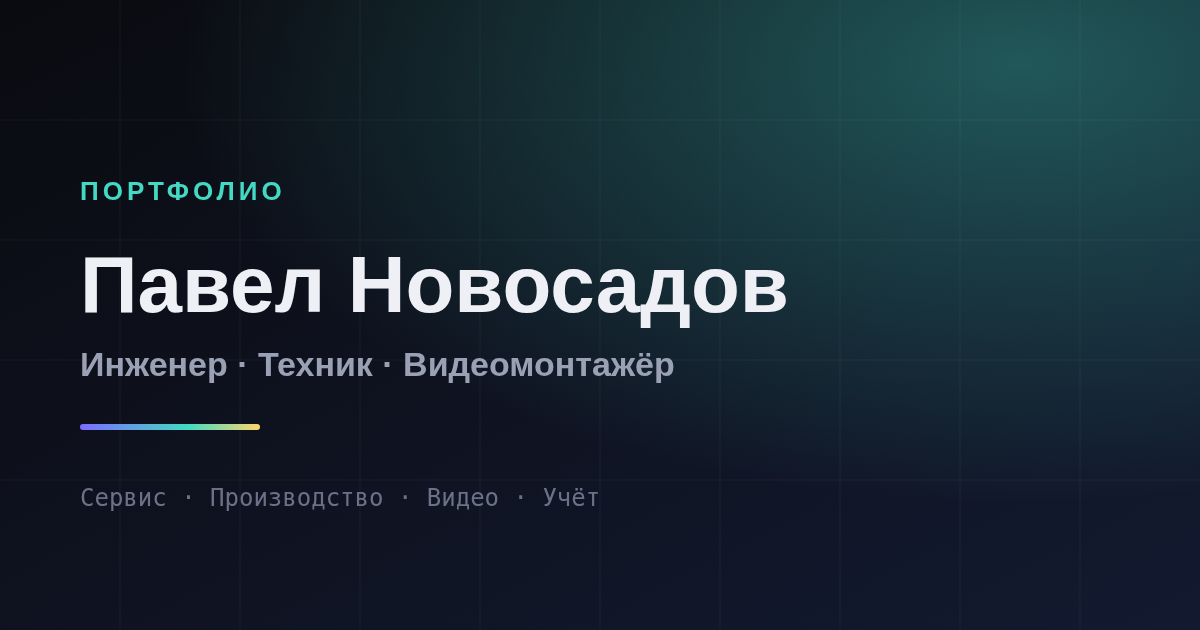
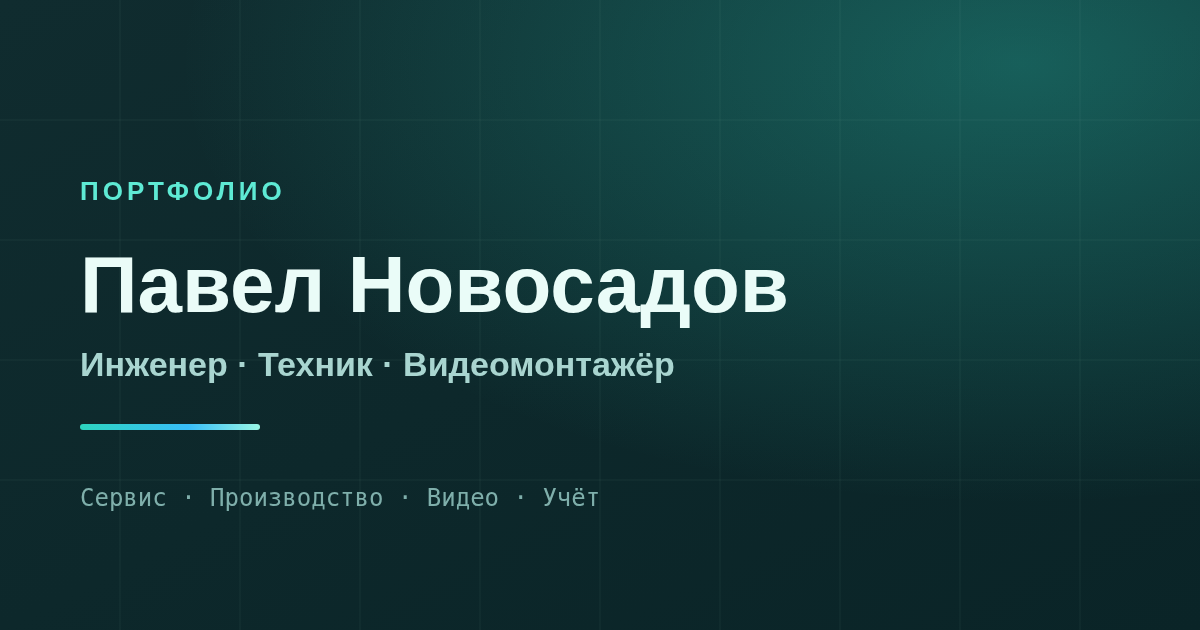
style: switch to medical teal palette
- replace violet and gold accents with turquoise, cyan and mint
- lighten dark theme from near-black to deep teal surfaces
- retune light theme to pale mint with teal accents
- keep four direction colors inside the teal-blue family
- update favicon, avatar, OG cover and 404 page
- keep contrast at WCAG AA for body text

Changed region(s): [[0.0, 0.0, 0.5858, 0.7841], [0.0617, 0.754, 0.4933, 0.8143]]

diff --git a/assets/css/style.css b/assets/css/style.css
@@ -5,24 +5,31 @@
 
 /* ---------- Design tokens ---------- */
 :root {
-  --bg: #0a0b10;
-  --bg-alt: #0e1017;
-  --surface: #12141d;
-  --surface-2: #171a25;
-  --border: rgba(255, 255, 255, 0.08);
-  --border-strong: rgba(255, 255, 255, 0.16);
-  --text: #eef0f6;
-  --text-muted: #9aa1b4;
-  --text-dim: #6b7288;
-  --accent: #7c6cff;
-  --accent-2: #43d9c4;
-  --accent-3: #ff7a90;
-  --accent-4: #ffd66b;
-  --accent-5: #5ad1ff;
-  --gradient: linear-gradient(120deg, #7c6cff 0%, #43d9c4 55%, #ffd66b 100%);
+  --bg: #12363a;
+  --bg-alt: #0f2e32;
+  --surface: #184449;
+  --surface-2: #1e5055;
+  --border: rgba(167, 243, 208, 0.13);
+  --border-strong: rgba(167, 243, 208, 0.26);
+  --text: #eafcf8;
+  --text-muted: #a9d5d0;
+  --text-dim: #8ab9b4;
+  --accent: #2dd4bf;
+  --accent-2: #5eead4;
+  --accent-3: #67e8f9;
+  --accent-4: #99f6e4;
+  --accent-5: #38bdf8;
+  --gradient: linear-gradient(120deg, #2dd4bf 0%, #22d3ee 55%, #99f6e4 100%);
   --gradient-text: var(--gradient);
-  --shadow: 0 24px 60px -24px rgba(0, 0, 0, 0.75);
-  --ring: 0 0 0 3px rgba(124, 108, 255, 0.35);
+  --shadow: 0 24px 60px -24px rgba(0, 18, 20, 0.7);
+  --ring: 0 0 0 3px rgba(45, 212, 191, 0.35);
+  --ink: #04211f;
+
+  --track-service: #2dd4bf;
+  --track-production: #38bdf8;
+  --track-video: #67e8f9;
+  --track-warehouse: #5eead4;
+  --track-it: #22d3ee;
 
   --radius-sm: 10px;
   --radius: 18px;
@@ -37,20 +44,31 @@
 }
 
 [data-theme="light"] {
-  --bg: #f7f7fb;
+  --bg: #eefaf7;
   --bg-alt: #ffffff;
   --surface: #ffffff;
-  --surface-2: #f1f2f8;
-  --border: rgba(16, 18, 32, 0.09);
-  --border-strong: rgba(16, 18, 32, 0.18);
-  --text: #14161f;
-  --text-muted: #4b5266;
-  --text-dim: #646c80;
-  --accent: #5b47f5;
-  --accent-2: #0a7a6a;
-  --gradient-text: linear-gradient(120deg, #5b47f5 0%, #0f9f8c 55%, #a86b00 100%);
-  --shadow: 0 24px 50px -28px rgba(20, 22, 40, 0.35);
-  --ring: 0 0 0 3px rgba(91, 71, 245, 0.25);
+  --surface-2: #e2f4ef;
+  --border: rgba(8, 60, 56, 0.10);
+  --border-strong: rgba(8, 60, 56, 0.20);
+  --text: #0b2e2b;
+  --text-muted: #3d6561;
+  --text-dim: #4f7570;
+  --accent: #0f766e;
+  --accent-2: #115e59;
+  --accent-3: #0891b2;
+  --accent-4: #0e7490;
+  --accent-5: #0369a1;
+  --gradient: linear-gradient(120deg, #0d9488 0%, #0891b2 55%, #0f766e 100%);
+  --gradient-text: linear-gradient(120deg, #0f766e 0%, #0891b2 55%, #0d9488 100%);
+  --shadow: 0 24px 50px -28px rgba(6, 60, 56, 0.28);
+  --ring: 0 0 0 3px rgba(13, 148, 136, 0.25);
+  --ink: #ffffff;
+
+  --track-service: #0f766e;
+  --track-production: #0369a1;
+  --track-video: #0e7490;
+  --track-warehouse: #0f766e;
+  --track-it: #0e7490;
 }
 
 /* ---------- Reset ---------- */
@@ -90,7 +108,7 @@ ul { list-style: none; padding: 0; }
   border-radius: 6px;
 }
 
-::selection { background: var(--accent); color: #fff; }
+::selection { background: var(--accent); color: var(--ink); }
 
 .skip-link {
   position: absolute;
@@ -99,7 +117,7 @@ ul { list-style: none; padding: 0; }
   z-index: 200;
   padding: 12px 18px;
   background: var(--accent);
-  color: #fff;
+  color: var(--ink);
   border-radius: var(--radius-sm);
   transition: top 0.2s;
 }
@@ -139,7 +157,7 @@ ul { list-style: none; padding: 0; }
   width: 520px;
   height: 520px;
   border-radius: 50%;
-  background: radial-gradient(circle, rgba(124, 108, 255, 0.14), transparent 62%);
+  background: radial-gradient(circle, rgba(45, 212, 191, 0.16), transparent 62%);
   transform: translate(-50%, -50%);
   pointer-events: none;
   z-index: 0;
@@ -190,7 +208,7 @@ ul { list-style: none; padding: 0; }
   height: 34px;
   border-radius: 10px;
   background: var(--gradient);
-  color: #0a0b10;
+  color: var(--ink);
   font-size: 13px;
   font-weight: 800;
 }
@@ -278,13 +296,13 @@ ul { list-style: none; padding: 0; }
 .orb--1 {
   width: 620px; height: 620px;
   top: -220px; right: -160px;
-  background: radial-gradient(circle, rgba(124, 108, 255, 0.55), transparent 68%);
+  background: radial-gradient(circle, rgba(45, 212, 191, 0.48), transparent 68%);
   animation: float 16s ease-in-out infinite;
 }
 .orb--2 {
   width: 480px; height: 480px;
   bottom: -200px; left: -140px;
-  background: radial-gradient(circle, rgba(67, 217, 196, 0.35), transparent 70%);
+  background: radial-gradient(circle, rgba(34, 211, 238, 0.32), transparent 70%);
   animation: float 20s ease-in-out infinite reverse;
 }
 [data-theme="light"] .orb { opacity: 0.35; }
@@ -398,13 +416,13 @@ ul { list-style: none; padding: 0; }
 .btn--primary {
   background: var(--text);
   color: var(--bg);
-  box-shadow: 0 10px 30px -12px rgba(124, 108, 255, 0.6);
+  box-shadow: 0 10px 30px -12px rgba(45, 212, 191, 0.45);
 }
 .btn--primary:hover {
   transform: translateY(-2px);
   background: var(--accent);
-  color: #fff;
-  box-shadow: 0 18px 38px -14px rgba(124, 108, 255, 0.75);
+  color: var(--ink);
+  box-shadow: 0 18px 38px -14px rgba(45, 212, 191, 0.55);
 }
 
 .btn--ghost {
@@ -659,11 +677,11 @@ ul { list-style: none; padding: 0; }
 .direction__link:hover { color: var(--track-color, var(--accent-2)); gap: 12px; }
 .direction__link:hover span { transform: translateX(2px); }
 
-[data-track="service"] { --track-color: var(--accent); }
-[data-track="production"] { --track-color: var(--accent-4); }
-[data-track="video"] { --track-color: var(--accent-3); }
-[data-track="warehouse"] { --track-color: var(--accent-2); }
-[data-track="it"] { --track-color: var(--accent-5); }
+[data-track="service"] { --track-color: var(--track-service); }
+[data-track="production"] { --track-color: var(--track-production); }
+[data-track="video"] { --track-color: var(--track-video); }
+[data-track="warehouse"] { --track-color: var(--track-warehouse); }
+[data-track="it"] { --track-color: var(--track-it); }
 
 /* ---------- Skill levels ---------- */
 .levels { display: grid; }
@@ -778,7 +796,7 @@ ul { list-style: none; padding: 0; }
 }
 .work__item--current .work__body::before {
   border-color: var(--accent-2);
-  box-shadow: 0 0 0 4px rgba(67, 217, 196, 0.16);
+  box-shadow: 0 0 0 4px rgba(45, 212, 191, 0.18);
 }
 .work__item:last-child .work__side,
 .work__item:last-child .work__body { padding-bottom: 0; }
@@ -979,7 +997,7 @@ ul { list-style: none; padding: 0; }
   border-radius: 50%;
   background: var(--bg);
   border: 2px solid var(--accent-2);
-  box-shadow: 0 0 0 4px rgba(67, 217, 196, 0.1);
+  box-shadow: 0 0 0 4px rgba(45, 212, 191, 0.12);
 }
 .section--alt .tl-item::before { background: var(--bg-alt); }
 
@@ -1024,8 +1042,8 @@ ul { list-style: none; padding: 0; }
   border: 1px solid var(--border);
   border-radius: var(--radius-lg);
   background:
-    radial-gradient(120% 140% at 100% 0%, rgba(124, 108, 255, 0.16), transparent 55%),
-    radial-gradient(90% 120% at 0% 100%, rgba(67, 217, 196, 0.12), transparent 50%),
+    radial-gradient(120% 140% at 100% 0%, rgba(45, 212, 191, 0.18), transparent 55%),
+    radial-gradient(90% 120% at 0% 100%, rgba(34, 211, 238, 0.14), transparent 50%),
     var(--surface);
   text-align: center;
   overflow: hidden;

diff --git a/404.html b/404.html
@@ -8,8 +8,8 @@
   <link rel="icon" href="/portfolio/assets/favicon.svg" type="image/svg+xml" />
   <style>
     :root {
-      --bg: #0a0b10; --text: #eef0f6; --muted: #9aa1b4;
-      --gradient: linear-gradient(120deg, #7c6cff, #43d9c4, #ffd66b);
+      --bg: #102c2f; --text: #eafcf8; --muted: #a9d5d0;
+      --gradient: linear-gradient(120deg, #2dd4bf, #22d3ee, #99f6e4);
     }
     * { box-sizing: border-box; }
     body {
@@ -28,7 +28,7 @@
       background: var(--text); color: var(--bg); font-weight: 700;
       text-decoration: none; transition: transform .2s, background .2s, color .2s;
     }
-    a:hover { transform: translateY(-2px); background: #7c6cff; color: #fff; }
+    a:hover { transform: translateY(-2px); background: #2dd4bf; color: #04211f; }
   </style>
 </head>
 <body>

diff --git a/index.html b/index.html
@@ -6,7 +6,7 @@
   <title>Павел Новосадов — инженер, техник, видеомонтажёр</title>
   <meta name="description" content="Портфолио Павла Новосадова: инженерный сервис и медицинская техника, производство и ЧПУ, видеомонтаж, склад и учёт. Навыки, опыт, сертификаты и курсы." />
   <meta name="author" content="Павел Новосадов" />
-  <meta name="theme-color" content="#0a0b10" />
+  <meta name="theme-color" content="#12363a" />
 
   <meta property="og:type" content="website" />
   <meta property="og:title" content="Павел Новосадов — инженер, техник, видеомонтажёр" />

diff --git a/assets/js/main.js b/assets/js/main.js
@@ -23,7 +23,7 @@
     root.setAttribute("data-theme", theme);
     themeToggle?.setAttribute("aria-pressed", String(theme === "light"));
     const meta = $('meta[name="theme-color"]');
-    if (meta) meta.setAttribute("content", theme === "light" ? "#f7f7fb" : "#0a0b10");
+    if (meta) meta.setAttribute("content", theme === "light" ? "#eefaf7" : "#12363a");
   };
 
   applyTheme(getPreferredTheme());
